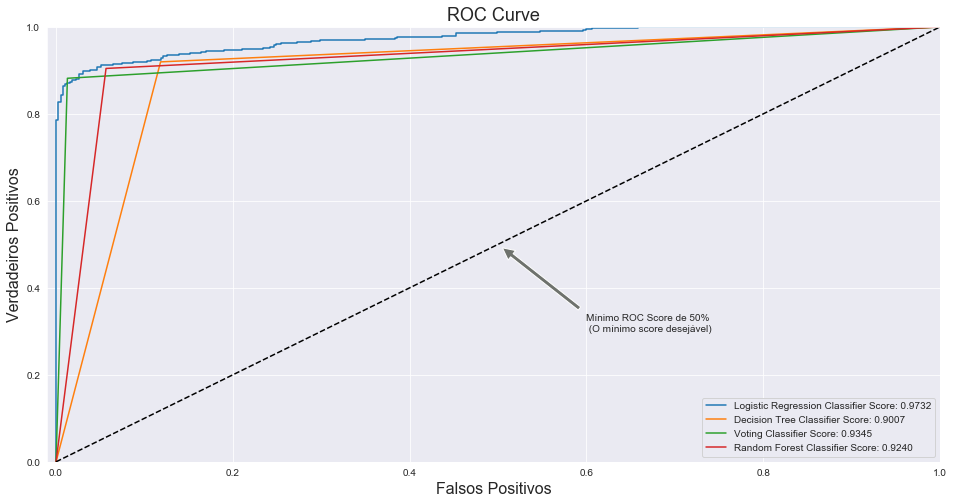
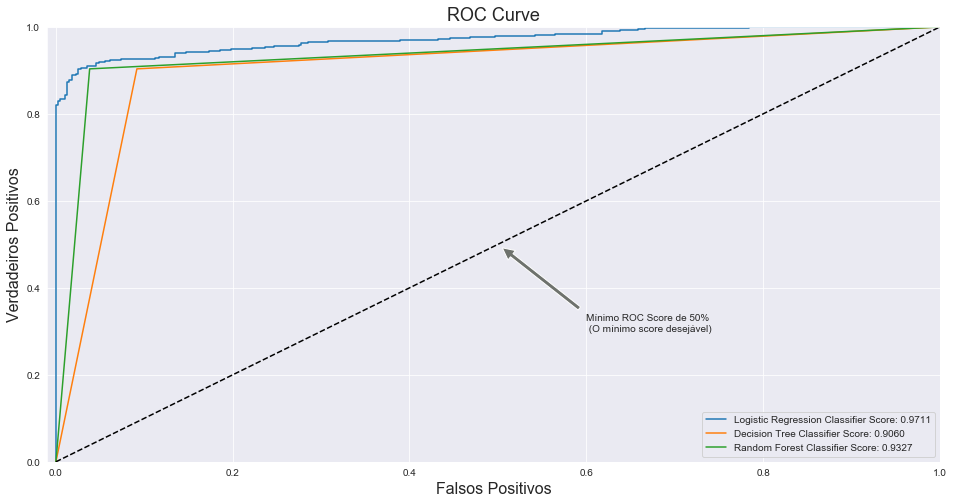
Finalização da api e adição da página do modelo

diff --git a/templates/index.html b/templates/index.html
@@ -17,13 +17,13 @@
 			<a href="#Análise_Exploratória">Análise Exploratória</a>
 			<a href="#Previsoes">Previsões</a>
 			<a href="#Tunning_do_modelo">Tunning do Modelo</a>
+			<a href="/model">Usar o Modelo</a>
 		</div>
 		<a name = "Introdução">
 		<h4 style="text-align: center; padding-top: 2em">Introdução</h4>
 		<div style="text-align: center;">
 			<p>Este é o projeto final de Ciência dos dados de 2020/1. Este projeto tem como intuito a construção de uma análise com um grau elevado de autonomia por parte de nós, alunos, e com escolha de tema livre.</p>
 			<p>Sobre a ultima afirmação, escolhemos um dataset que nos tras dados sobre transações bancárias e a classificação delas como fraudes ou não fraudes (0 ou 1). Por ser um dataset que trata de um assunto extremamente delicado, os idealizadores do mesmo não puderam disponibilizar o verdadeiro nome das features (ou colunas), com isso, nossa análise teve que se estreitar apenas em  uma análise de dados pura e rigida para conseguirmos tirar o maior potencial o possível de nosso modelo preditivo.</p>
-			<p>Como dito no título, usamos um classificador chamado Random Forest Classifier que, de maneira simplificada, usa diversas Decision Trees para minimizar a entropia do modelo e fazer classificações que estão de acordo com a relação entre as features.</p>
 		</div>
 		<a name = "Análise_Exploratória">
 		<h4 style="text-align: center; padding-top: 2em">Análise Exploratória</h4>
@@ -62,8 +62,7 @@
 				<div style="float: left; padding-bottom: 2em">
 					<img src="media/logistic_regression_matrix.png" style="float: left;">
 					<img src="media/decision_tree_matrix.png" style="float: right;">
-					<img src="media/voting_classifier_matrix.png" style="float: left;">
-					<img src="media/random_forest_matrix.png" style="float: right;">
+					<img src="media/random_forest_matrix.png" style="float: left;">
 				</div>
 				<p>Podemos ver que quem possui a maior performance é o Random Forest Classifier, mesmo assim, vamos plotar um gráfico tipo ROC (Receiver Operating Characteristic Curve), este plot nos retorna uma representação gráfica da performance de um modelo classificador binário conforme seu limiar de discriminação aumenta. Os parametros desse plot são o RPV (razão de positivos verdadeiros dividido pelos positivos totais do sistema) e o RPF (razão de falsos positivos dividido pelos negativos totais do sistema). Veja o plot a seguir.</p>
 				<img src="media/roc_models.png" style="max-width: 100%">
@@ -78,6 +77,8 @@
 					<img src="media/random_forest_best_matrix.png" style="float: left; max-width: 50%">
 				</div>
 				<p>Mesmo que de uma maneira sutil, conseguimos melhorar ainda mais o nosso modelo, finalizando assim nosso projeto.</p>
+				<p>A titulo de curiosidade, a imagem a seguir mostra como ficou a Decision Tree do nosso modelo depois que estava pronto.</p>
+				<img src="media/decision_tree_complete.png" style="max-width: 100%; max-height: 50%">
 			</div>
 	</div>
 </body>

diff --git a/templates/model.html b/templates/model.html
@@ -1,0 +1,16 @@
+<!DOCTYPE html>
+<html>
+<head>
+	<title>CDADOS</title>
+</head>
+<body style="font-family: Courier; letter-spacing: 0.001em;">
+	<div style = "margin: 0 auto; width: 70%">
+		<h1 style="text-align: center;">Modelo preditivo</h1>
+		<p>Neste página você poderá usar o modelo para prever se alguma transação bancária é fraude ou não. Tudo que você precisa fazer é submeter um arquivo to tipo csv para que nosso preditor faça o trabalho de classifica-lo como fraude ou não. Você pode enviar diversos casos (como uma tabela) de transações bancárias, o modelo irá retornar a classificação de todas elas.</p>
+		<form method = "POST" enctype=multipart/form-data style="float: left; padding-top: 2em">
+			<input type="file" name="CSV file">
+			<input type="submit" name="submit" formaction="detect_fraud" style="margin-left: 2em">
+		</form>
+	</div>
+</body>
+</html>

diff --git a/api.py b/api.py
@@ -23,6 +23,10 @@ def page_send_file(filename):
 def page_index():
     return render_template('index.html')
 
+@app.route('/model')
+def page_model():
+    return render_template('model.html')
+
 @app.route('/detect_fraud', methods=['POST'])
 def predict_digit():
     """Example endpoint returning a detection of a fraud
@@ -33,7 +37,7 @@ def predict_digit():
           type: file
           required: true
     """
-    dataset = pd.read_csv(request.files['CSV File'])
+    dataset = pd.read_csv(request.files['CSV file'])
     X_test = dataset.loc[:dataset.shape[0]]
     #X_test = np.array(dataset.loc[0])
     #X_test = X_test.reshape(1,-1)
@@ -42,7 +46,10 @@ def predict_digit():
     predictions_dict = {}
     for i in range(dataset.shape[0]):
         predictions_dict[i] = ("FRAUD" if y_pred[i] == 1 else "NON FRAUD")
-    return predictions_dict
+
+    df = pd.DataFrame.from_dict(predictions_dict, orient = 'index').to_html()
+
+    return df
 
 if __name__ == '__main__':
     app.debug = True
